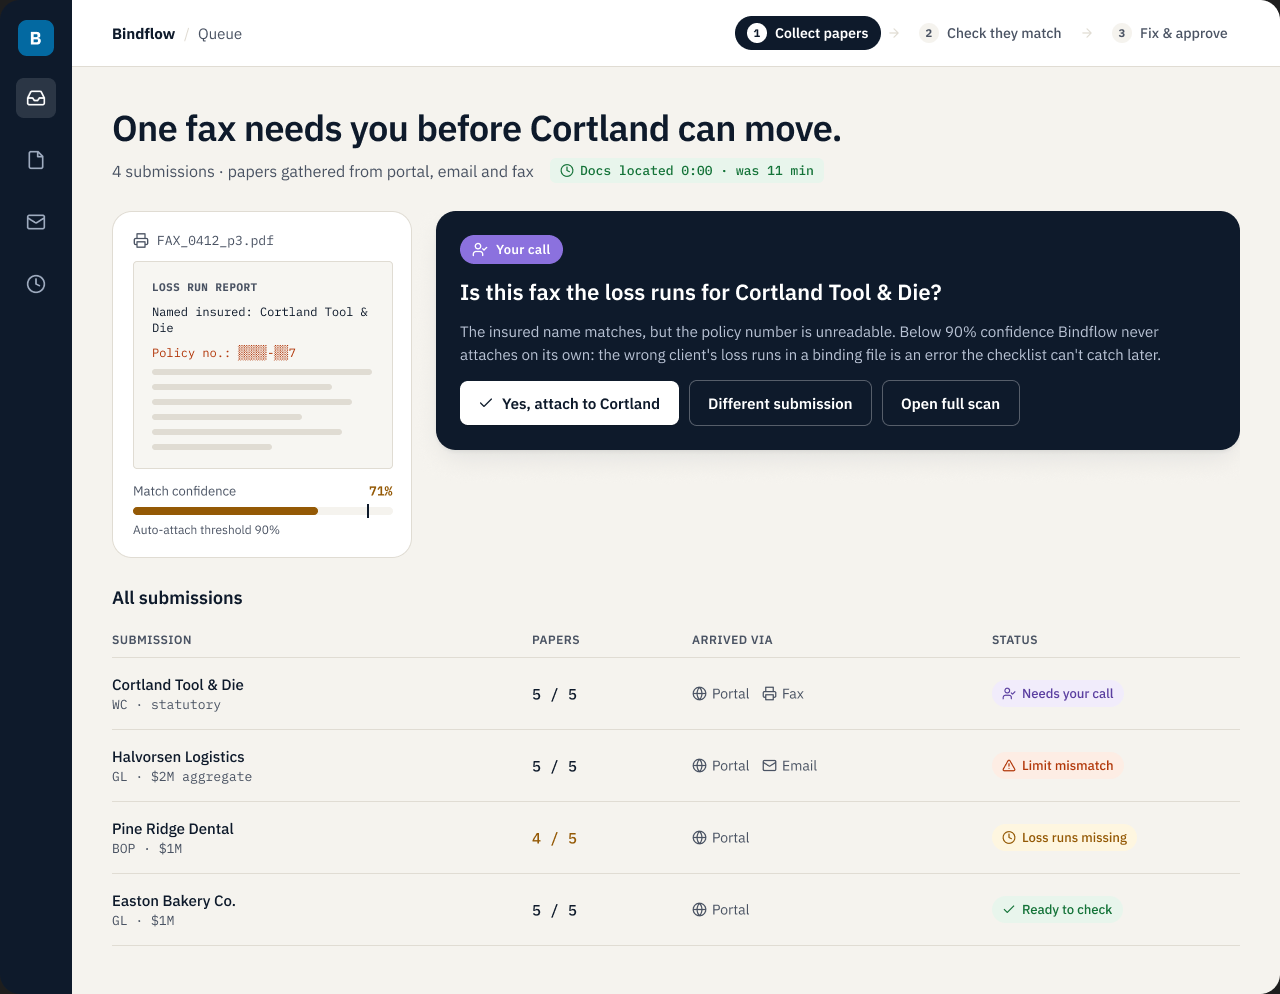
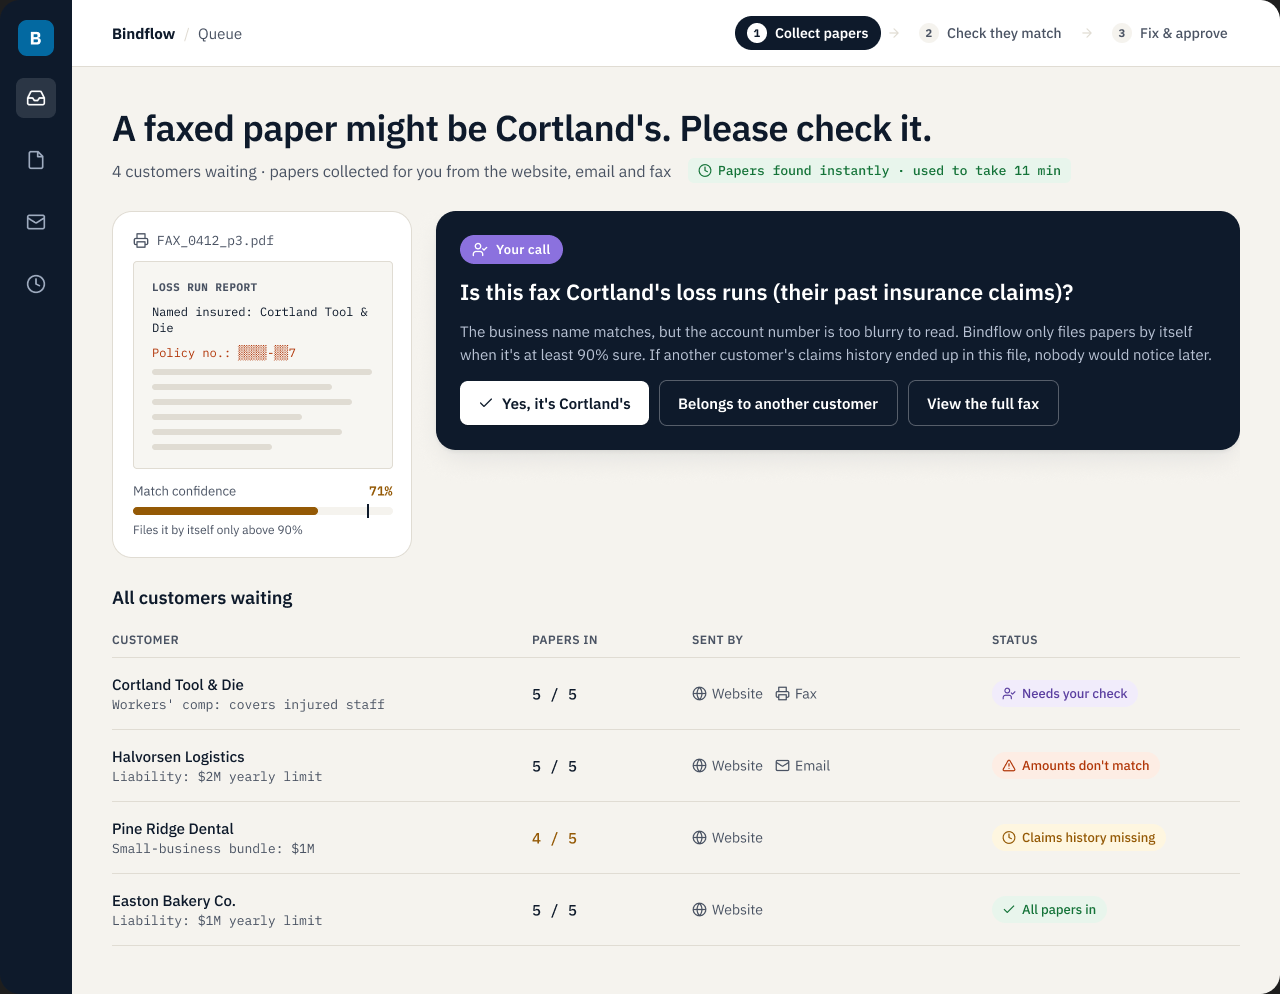
copy: plain-English wording across screens and prototype

diff --git a/prototype/index.html b/prototype/index.html
@@ -197,8 +197,8 @@ footer a{color:var(--acc)}
 <main id="main">
 <!-- SCREEN 1 -->
 <section class="screen on" id="s1" aria-labelledby="h1a">
-  <h1 id="h1a">One fax needs you before Cortland can move.</h1>
-  <p class="sub"><span>4 submissions · papers gathered from portal, email and fax</span><span class="metric mono"><svg width="14" height="14"><use href="#i-clock"/></svg>Docs located 0:00 · was 11 min</span></p>
+  <h1 id="h1a">A faxed paper might be Cortland's. Please check it.</h1>
+  <p class="sub"><span>4 customers waiting · papers collected for you from the website, email and fax</span><span class="metric mono"><svg width="14" height="14"><use href="#i-clock"/></svg>Papers found instantly · used to take 11 min</span></p>
   <div class="row r1">
     <div class="card fax">
       <div class="fax-name mono"><svg width="16" height="16"><use href="#i-fax"/></svg>FAX_0412_p3.pdf</div>
@@ -208,61 +208,61 @@ footer a{color:var(--acc)}
       <div class="conf">
         <div><span>Match confidence</span><strong class="mono">71%</strong></div>
         <div class="track" role="meter" aria-valuenow="71" aria-valuemin="0" aria-valuemax="100" aria-label="Match confidence"><span style="width:71%;background:var(--amb)"></span><em style="left:90%"></em></div>
-        <div class="hint" style="font-size:13px">Auto-attach threshold 90%</div>
+        <div class="hint" style="font-size:13px">Files it by itself only above 90%</div>
       </div>
     </div>
     <div class="decision" id="d1">
       <span class="seal"><svg width="16" height="16"><use href="#i-user"/></svg>Your call</span>
-      <h2>Is this fax the loss runs for Cortland Tool &amp; Die?</h2>
-      <p>The insured name matches, but the policy number is unreadable. Below 90% confidence Bindflow never attaches on its own: the wrong client's loss runs in a binding file is an error the checklist can't catch later.</p>
+      <h2>Is this fax Cortland's loss runs (their past insurance claims)?</h2>
+      <p>The business name matches, but the account number is too blurry to read. Bindflow only files papers by itself when it's at least 90% sure. If another customer's claims history ended up in this file, nobody would notice later.</p>
       <div class="btns" data-replace>
-        <button class="btn pri" data-done="Attached to Cortland by you · logged"><svg width="16" height="16"><use href="#i-check"/></svg>Yes, attach to Cortland</button>
-        <button class="btn sec">Different submission</button>
-        <button class="btn sec">Open full scan</button>
+        <button class="btn pri" data-done="Filed under Cortland by you · saved to history"><svg width="16" height="16"><use href="#i-check"/></svg>Yes, it's Cortland's</button>
+        <button class="btn sec">Belongs to another customer</button>
+        <button class="btn sec">View the full fax</button>
       </div>
     </div>
   </div>
 
-  <h2 style="margin-top:40px">All submissions</h2>
+  <h2 style="margin-top:40px">All customers waiting</h2>
   <table class="tbl">
-    <thead><tr><th>Submission</th><th>Papers</th><th>Arrived via</th><th>Status</th></tr></thead>
+    <thead><tr><th>Customer</th><th>Papers in</th><th>Sent by</th><th>Status</th></tr></thead>
     <tbody>
-      <tr><td>Cortland Tool &amp; Die<small>WC · statutory</small></td><td class="mono">5 / 5</td><td><div class="via"><span><svg width="15" height="15"><use href="#i-globe"/></svg>Portal</span><span><svg width="15" height="15"><use href="#i-fax"/></svg>Fax</span></div></td><td><span class="pill p-vio"><svg width="14" height="14"><use href="#i-user"/></svg>Needs your call</span></td></tr>
-      <tr><td>Halvorsen Logistics<small>GL · $2M aggregate</small></td><td class="mono">5 / 5</td><td><div class="via"><span><svg width="15" height="15"><use href="#i-globe"/></svg>Portal</span><span><svg width="15" height="15"><use href="#i-mail"/></svg>Email</span></div></td><td><button class="pill p-red" style="border:0" data-go="2"><svg width="14" height="14"><use href="#i-alert"/></svg>Limit mismatch</button></td></tr>
-      <tr><td>Pine Ridge Dental<small>BOP · $1M</small></td><td class="mono" style="color:var(--amb)">4 / 5</td><td><div class="via"><span><svg width="15" height="15"><use href="#i-globe"/></svg>Portal</span></div></td><td><span class="pill p-amb"><svg width="14" height="14"><use href="#i-clock"/></svg>Loss runs missing</span></td></tr>
-      <tr><td>Easton Bakery Co.<small>GL · $1M</small></td><td class="mono">5 / 5</td><td><div class="via"><span><svg width="15" height="15"><use href="#i-globe"/></svg>Portal</span></div></td><td><span class="pill p-grn"><svg width="14" height="14"><use href="#i-check"/></svg>Ready to check</span></td></tr>
+      <tr><td>Cortland Tool &amp; Die<small>Workers' comp: covers injured staff</small></td><td class="mono">5 / 5</td><td><div class="via"><span><svg width="15" height="15"><use href="#i-globe"/></svg>Website</span><span><svg width="15" height="15"><use href="#i-fax"/></svg>Fax</span></div></td><td><span class="pill p-vio"><svg width="14" height="14"><use href="#i-user"/></svg>Needs your check</span></td></tr>
+      <tr><td>Halvorsen Logistics<small>Liability: $2M yearly limit</small></td><td class="mono">5 / 5</td><td><div class="via"><span><svg width="15" height="15"><use href="#i-globe"/></svg>Website</span><span><svg width="15" height="15"><use href="#i-mail"/></svg>Email</span></div></td><td><button class="pill p-red" style="border:0" data-go="2"><svg width="14" height="14"><use href="#i-alert"/></svg>Amounts don't match</button></td></tr>
+      <tr><td>Pine Ridge Dental<small>Small-business bundle: $1M</small></td><td class="mono" style="color:var(--amb)">4 / 5</td><td><div class="via"><span><svg width="15" height="15"><use href="#i-globe"/></svg>Website</span></div></td><td><span class="pill p-amb"><svg width="14" height="14"><use href="#i-clock"/></svg>Claims history missing</span></td></tr>
+      <tr><td>Easton Bakery Co.<small>Liability: $1M yearly limit</small></td><td class="mono">5 / 5</td><td><div class="via"><span><svg width="15" height="15"><use href="#i-globe"/></svg>Website</span></div></td><td><span class="pill p-grn"><svg width="14" height="14"><use href="#i-check"/></svg>All papers in</span></td></tr>
     </tbody>
   </table>
 </section>
 
 <!-- SCREEN 2 -->
 <section class="screen" id="s2" aria-labelledby="h1b">
-  <h1 id="h1b">The certificate covers half of what the client asked for.</h1>
-  <p class="sub"><span>Values read from each paper and compared for you</span><span class="metric mono"><svg width="14" height="14"><use href="#i-clock"/></svg>Found 0:00 · 36% of files have one</span></p>
+  <h1 id="h1b">The broker's paper shows $1M of cover, but the customer asked for $2M.</h1>
+  <p class="sub"><span>Bindflow read the yearly payout limit from both papers and compared them</span><span class="metric mono"><svg width="14" height="14"><use href="#i-clock"/></svg>Spotted instantly · happens on about 1 in 3 files</span></p>
   <div class="band">
-    <div class="fig"><label><svg width="15" height="15"><use href="#i-file"/></svg>Application · aggregate</label><div class="num">$2,000,000</div><small>Signed by client, portal, 28 Sep</small></div>
+    <div class="fig"><label><svg width="15" height="15"><use href="#i-file"/></svg>Customer asked for (application)</label><div class="num">$2,000,000</div><small>Signed by the customer, 28 Sep</small></div>
     <div class="ne" role="img" aria-label="does not equal"><svg width="26" height="26"><use href="#i-ne"/></svg></div>
-    <div class="fig"><label><svg width="15" height="15"><use href="#i-mail"/></svg>Certificate · aggregate</label><div class="num" style="color:var(--red)">$1,000,000</div><small>Broker email, 3 Oct</small></div>
+    <div class="fig"><label><svg width="15" height="15"><use href="#i-mail"/></svg>Broker's paper shows (certificate)</label><div class="num" style="color:var(--red)">$1,000,000</div><small>Emailed by the broker, 3 Oct</small></div>
   </div>
   <div class="row r2">
     <div class="card flat">
-      <h2>Binding checklist</h2>
-      <p class="hint" style="margin-bottom:14px">Unchanged from Bindwise. Ticked from the papers.</p>
+      <h2>Checklist before the insurance can start</h2>
+      <p class="hint" style="margin-bottom:14px">The same list the team uses today, ticked for you from the papers.</p>
       <ul class="check">
-        <li><span class="box"><svg width="13" height="13"><use href="#i-check"/></svg></span>Certificate of insurance received</li>
-        <li><span class="box"><svg width="13" height="13"><use href="#i-check"/></svg></span>Loss runs, 5 years</li>
+        <li><span class="box"><svg width="13" height="13"><use href="#i-check"/></svg></span>Broker's certificate received</li>
+        <li><span class="box"><svg width="13" height="13"><use href="#i-check"/></svg></span>5 years of claims history</li>
         <li><span class="box"><svg width="13" height="13"><use href="#i-check"/></svg></span>Application signed</li>
-        <li class="warn"><span class="box x"><svg width="12" height="12"><use href="#i-alert"/></svg></span>Coverage limits match application</li>
-        <li><span class="box"><svg width="13" height="13"><use href="#i-check"/></svg></span>Named insured consistent</li>
+        <li class="warn"><span class="box x"><svg width="12" height="12"><use href="#i-alert"/></svg></span>Payout amounts match what was asked for</li>
+        <li><span class="box"><svg width="13" height="13"><use href="#i-check"/></svg></span>Business name is the same on every paper</li>
       </ul>
     </div>
     <div class="decision">
       <span class="seal"><svg width="16" height="16"><use href="#i-user"/></svg>Your call</span>
       <h2>Is this mismatch real?</h2>
-      <p>Bindflow read these figures from a broker's PDF and can misread a scan. Confirm before anything goes to the broker: a false flag costs a two-day round trip.</p>
+      <p>Bindflow read these numbers from a scanned paper and could have misread them. Check before we email the broker: a false alarm wastes about two days waiting for a reply.</p>
       <div class="btns">
         <button class="btn pri" data-go="3"><svg width="16" height="16"><use href="#i-arrow"/></svg>Yes, ask the broker</button>
-        <button class="btn sec">Misread, values match</button>
+        <button class="btn sec">No, it misread them</button>
       </div>
     </div>
   </div>
@@ -270,41 +270,41 @@ footer a{color:var(--acc)}
 
 <!-- SCREEN 3 -->
 <section class="screen" id="s3" aria-labelledby="h1c">
-  <h1 id="h1c">Send one clear request. Bind only when it's resolved.</h1>
-  <p class="sub"><span>Drafted from your confirmed mismatch</span><span class="metric mono"><svg width="14" height="14"><use href="#i-clock"/></svg>Tracked from day 0 · median was 2.1 d</span></p>
+  <h1 id="h1c">Ask the broker to fix it, then start the insurance.</h1>
+  <p class="sub"><span>Bindflow wrote this email from the problem you confirmed</span><span class="metric mono"><svg width="14" height="14"><use href="#i-clock"/></svg>Tracked from day 0 · replies used to take about 2 days</span></p>
   <div class="row r3">
     <div class="decision">
       <span class="seal"><svg width="16" height="16"><use href="#i-user"/></svg>Your call</span>
-      <h2>Send this to Dana at Keystone Brokerage?</h2>
-      <dl class="meta"><dt>To</dt><dd>Dana Kowalczyk · Keystone Brokerage</dd><dt>Subject</dt><dd>Halvorsen Logistics GL: aggregate limit on certificate</dd></dl>
+      <h2>Send this request to Dana, the broker?</h2>
+      <dl class="meta"><dt>To</dt><dd>Dana Kowalczyk · Keystone Brokerage</dd><dt>Subject</dt><dd>Halvorsen Logistics: the yearly limit on the certificate is wrong</dd></dl>
       <div class="letter">
         <p>Hi Dana,</p>
-        <p>The certificate dated 3 Oct shows a $1,000,000 aggregate. The signed application requests $2,000,000.</p>
-        <span class="upl"><svg width="16" height="16"><use href="#i-file"/></svg><span>Upload corrected certificate<small>bindflow.link/h7Kq</small></span></span>
-        <p style="margin:0">Or reply to confirm the client accepted $1M.<br>Thanks, Anika</p>
+        <p>The certificate dated 3 Oct shows a $1,000,000 yearly limit. The customer's signed application asks for $2,000,000.</p>
+        <span class="upl"><svg width="16" height="16"><use href="#i-file"/></svg><span>Upload the corrected certificate<small>bindflow.link/h7Kq</small></span></span>
+        <p style="margin:0">Or reply to confirm the customer is happy with $1M.<br>Thanks, Anika</p>
       </div>
       <div class="btns" data-replace>
-        <button class="btn pri" data-done="Sent 09:14 · reminder in 24 h if no reply"><svg width="16" height="16"><use href="#i-mail"/></svg>Approve &amp; send</button>
+        <button class="btn pri" data-done="Sent at 09:14 · reminder tomorrow if no reply"><svg width="16" height="16"><use href="#i-mail"/></svg>Approve &amp; send</button>
         <button class="btn sec">Edit</button>
       </div>
-      <p class="foot">Nothing reaches a broker without you: it's your client relationship. If there's no reply in 24 h, Bindflow nudges and tells you.</p>
+      <p class="foot">Nothing is sent to a broker without your OK. If they don't reply within a day, Bindflow sends a reminder and tells you.</p>
     </div>
     <div class="side">
       <div class="card flat">
-        <h2>Waiting on brokers</h2>
+        <h2>Waiting for brokers to reply</h2>
         <div class="wait">
-          <div><div class="l"><span>Halvorsen · Dana K.</span><b class="mono" style="color:var(--acc)">0.1 d</b></div><div class="track"><span style="width:3%;background:var(--acc)"></span><em style="left:80%"></em></div></div>
-          <div><div class="l"><span>Pine Ridge · loss runs</span><b class="mono" style="color:var(--amb)">1.8 d</b></div><div class="track"><span style="width:36%;background:var(--amb)"></span><em style="left:80%"></em></div></div>
-          <div><div class="l"><span>Marlow Freight · certificate</span><b class="mono" style="color:var(--red)">4.3 d</b></div><div class="track"><span style="width:86%;background:var(--red)"></span><em style="left:80%"></em></div></div>
+          <div><div class="l"><span>Halvorsen · Dana K.</span><b class="mono" style="color:var(--acc)">2 hrs</b></div><div class="track"><span style="width:3%;background:var(--acc)"></span><em style="left:80%"></em></div></div>
+          <div><div class="l"><span>Pine Ridge · loss runs</span><b class="mono" style="color:var(--amb)">1.8 daysays</b></div><div class="track"><span style="width:36%;background:var(--amb)"></span><em style="left:80%"></em></div></div>
+          <div><div class="l"><span>Marlow Freight · certificate</span><b class="mono" style="color:var(--red)">4.3 daysays</b></div><div class="track"><span style="width:86%;background:var(--red)"></span><em style="left:80%"></em></div></div>
         </div>
-        <p class="hint" style="margin-top:12px;font-size:13px">Marker = 4 days. Past it, the file rises to the top for escalation.</p>
+        <p class="hint" style="margin-top:12px;font-size:13px">The line marks 4 days. Anything past it is flagged to a manager.</p>
       </div>
       <div class="card">
-        <div class="lock"><svg width="18" height="18" id="lockic"><use href="#i-lock"/></svg><h2 style="margin:0" id="locktxt">Bind is locked</h2></div>
-        <label class="c"><input type="checkbox" class="bc">Corrected certificate received and re-compared</label>
-        <label class="c"><input type="checkbox" class="bc">I've reviewed every flag on this file</label>
-        <button class="btn bind" id="bind" disabled><svg width="16" height="16"><use href="#i-lock"/></svg>Bind policy as Anika Shah</button>
-        <div class="signed"><span class="seal light"><svg width="16" height="16"><use href="#i-user"/></svg>Your call</span>Binding can't be undone. A named person signs.</div>
+        <div class="lock"><svg width="18" height="18" id="lockic"><use href="#i-lock"/></svg><h2 style="margin:0" id="locktxt">The insurance can't start yet</h2></div>
+        <label class="c"><input type="checkbox" class="bc">Corrected paper received and checked again</label>
+        <label class="c"><input type="checkbox" class="bc">I've checked every warning on this file</label>
+        <button class="btn bind" id="bind" disabled><svg width="16" height="16"><use href="#i-lock"/></svg>Start the insurance (bind) as Anika Shah</button>
+        <div class="signed"><span class="seal light"><svg width="16" height="16"><use href="#i-user"/></svg>Your call</span>Starting insurance can't be undone, so a named person signs off.</div>
       </div>
     </div>
   </div>
@@ -329,9 +329,9 @@ document.querySelectorAll('[data-done]').forEach(b=>b.addEventListener('click',(
 document.querySelectorAll('h1').forEach(h=>h.tabIndex=-1);
 const bcs=[...document.querySelectorAll('.bc')],bind=document.getElementById('bind');
 bcs.forEach(c=>c.addEventListener('change',()=>{const ok=bcs.every(x=>x.checked);bind.disabled=!ok;
-  document.getElementById('locktxt').textContent=ok?'Ready to bind':'Bind is locked';
-  bind.innerHTML='<svg width="16" height="16"><use href="'+(ok?'#i-check':'#i-lock')+'"/></svg>Bind policy as Anika Shah';}));
-bind.addEventListener('click',()=>{bind.outerHTML='<span class="pill p-grn" role="status" style="margin-top:6px"><svg width="14" height="14"><use href="#i-check"/></svg>Bound by Anika Shah · 09:41</span>';document.getElementById('locktxt').textContent='Policy bound';});
+  document.getElementById('locktxt').textContent=ok?"Ready to start":"The insurance can't start yet";
+  bind.innerHTML='<svg width="16" height="16"><use href="'+(ok?'#i-check':'#i-lock')+'"/></svg>Start the insurance (bind) as Anika Shah';}));
+bind.addEventListener('click',()=>{bind.outerHTML='<span class="pill p-grn" role="status" style="margin-top:6px"><svg width="14" height="14"><use href="#i-check"/></svg>Started by Anika Shah · 09:41</span>';document.getElementById('locktxt').textContent='The insurance is now active';});
 go(1);
 </script>
 </body>
